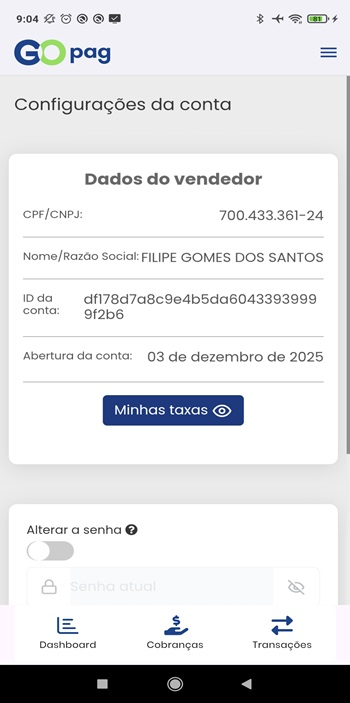
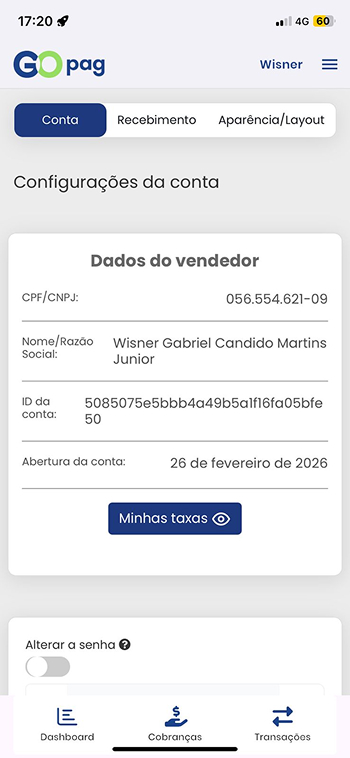
ajustes final

diff --git a/APLICATIVO_GOPAG/CONFIGURACOES/RECEBIMENTO/README.md b/APLICATIVO_GOPAG/CONFIGURACOES/RECEBIMENTO/README.md
@@ -1,0 +1,40 @@
+## Configurações de recebimento
+
+Nesta tela, você pode configurar como deseja receber seus valores no GoPag.
+
+No card **Alterar política de recebimento**, é possível definir:
+- **Transferência automática ativada ou desativada**
+- **Intervalo de transferência** (ex: diário)
+- **Valor mínimo para transferência**
+
+Essas opções permitem automatizar o envio dos valores para sua conta bancária de acordo com suas preferências.
+
+Após realizar as alterações desejadas, basta clicar em **Confirmar alteração** para salvar as configurações.
+
+## Conta bancária
+
+Na parte inferior da tela, você encontra a seção de **Conta bancária**, onde é possível cadastrar uma conta para recebimento dos valores.
+
+Para isso, clique em **Cadastrar conta** e preencha os dados solicitados.
+
+![](../../../.gitbook/assets/recebMon.jpg)
+
+## Cadastro de conta bancária
+
+Nesta tela, você pode cadastrar uma conta bancária para receber os valores das suas transações no GoPag.
+
+Para isso, é necessário preencher os dados solicitados, incluindo:
+- **Banco**
+- **Agência bancária**
+- **Dígito da agência (DV)**
+- **Número da conta**
+- **Dígito da conta (DV)**
+- **Tipo da conta**
+
+Os campos marcados com (*) são obrigatórios para o cadastro.
+
+Após preencher todas as informações corretamente, clique em **Cadastrar conta** para concluir o processo.
+
+Caso deseje cancelar a operação, utilize o botão **Cancelar**.
+
+![](../../../.gitbook/assets/criarContaBancaria.png)

diff --git a/APLICATIVO_GOPAG/CONFIGURACOES/README.md b/APLICATIVO_GOPAG/CONFIGURACOES/README.md
@@ -1,6 +1,18 @@
-# ⚙ Configurações
+## 🔹 Configurações da Conta
 
-Nesta tela você encontra as principais opções de configuração da sua conta. O primeiro card exibe os dados fornecidos na contratação do serviço.
+Nesta tela, você pode visualizar e gerenciar as informações da sua conta no GoPag.
+
+Na aba **Conta**, são exibidos os **dados do vendedor**, incluindo:
+- **CPF/CNPJ**
+- **Nome ou Razão Social**
+- **ID da conta**
+- **Data de abertura da conta**
+
+Essas informações são apresentadas de forma clara para facilitar a conferência dos dados cadastrados.
+
+Além disso, é possível acessar a opção **Minhas taxas**, onde você pode consultar as condições e tarifas aplicadas à sua conta.
+
+Outras abas, como **Recebimento** e **Aparência/Layout**, permitem a configuração de preferências adicionais conforme a necessidade.
 
 ![](../../.gitbook/assets/config_conta_01.jpg)
 
